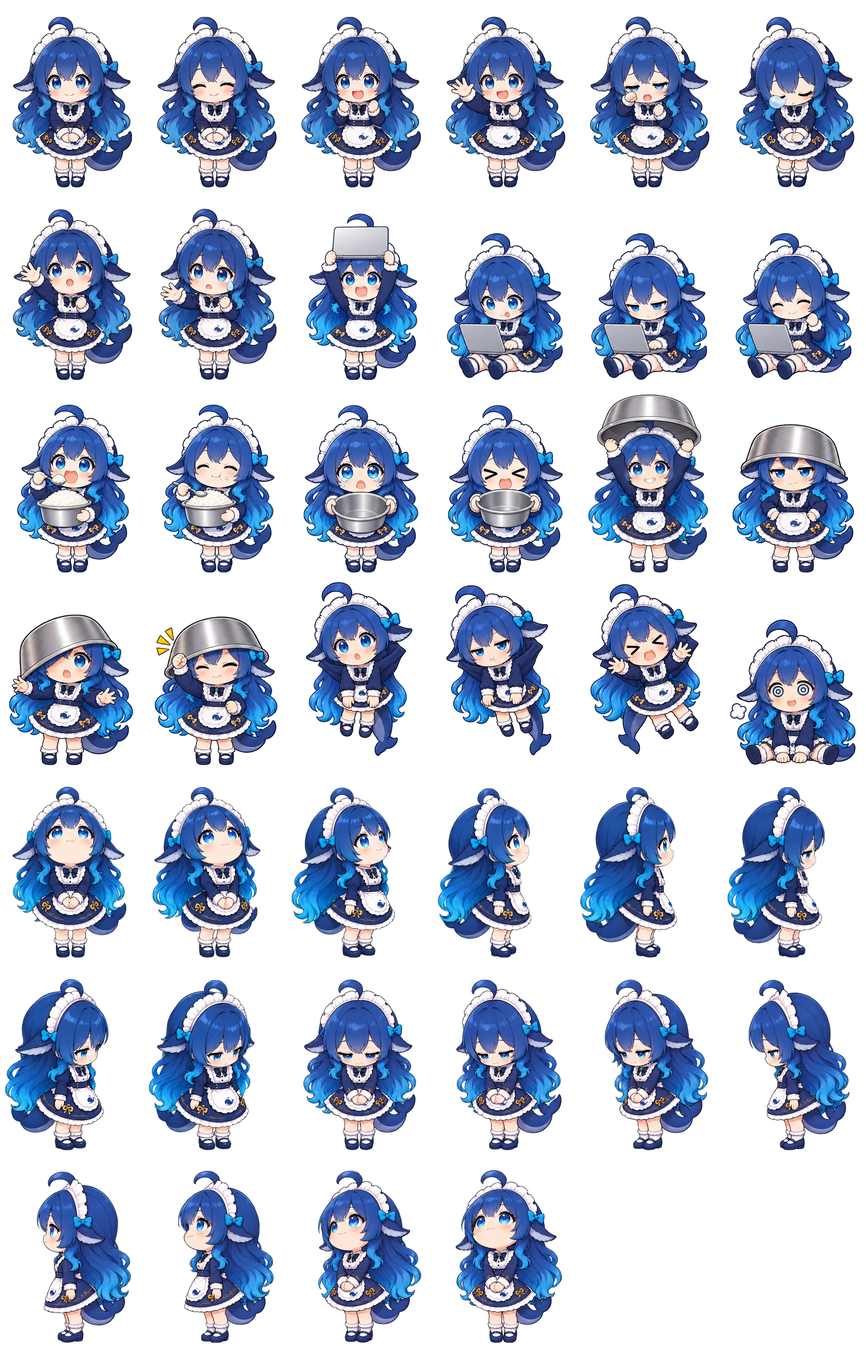
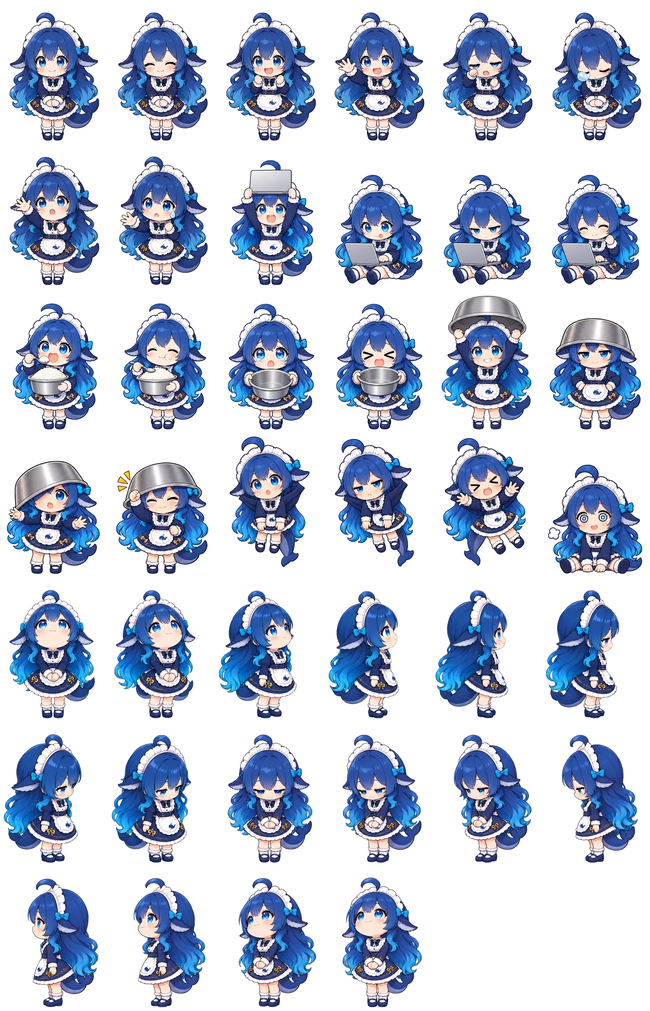
fix(whale-muse): v1.4.0 —— 大文件被 301 到被墙域名，改多源探测；素材压缩 -57%
## 真问题（v1.3.0 的皮肤在国内网络会「透明」）

`cdn.jsdelivr.net` 请求大素材时会 **301 到 raw.githubusercontent.com**，
而 raw 在国内**超时**（实测 30s 只下到 622KB 就断）。插件用 `background-image`
加载图集，拉不到就只剩一个透明壳 —— 而且**不报错、控制台干净**。

实测（1.7MB webp）：

| host | 结果 |
|---|---|
| testingcf.jsdelivr.net | 200 直出，0 跳转 |
| gcore.jsdelivr.net | 200 直出，0 跳转 |
| cdn.jsdelivr.net | 301 → raw，超时 |
| cdn.statically.io | 连接失败 |

## 改法

· 不再写死单一域名：`testingcf → gcore → cdn` 逐个探测，谁先出图用谁；
· 探测目标就是**低清占位图本身**，不做无用请求；
· 结果写进 `localStorage`（`kaoyan_whale_muse_cdn_v1`），下次优先直连；
· 全部失败也不抛错，皮肤保持透明，**不拖垮悬浮球本身**。

## 素材压缩（过采样纠正）

原图 2304×3584（384×512/格），站点最大只显示 168px 高，DPR3 也只需 ~378×504。

| 文件 | 变化 | 体积 |
|---|---|---|
| `pet-dafeiyu.webp` | 2304×3584 → 1728×2688 | 1662 KB → **934 KB** |
| `pet-dafeiyu-inbetweens` | PNG → WebP，1536×512 → 1152×384 | 709 KB → **91 KB** |
| `pet-dafeiyu-tiny.webp` | 新增，324×504 | **72 KB** |

合计 2371 KB → 1097 KB（-54%）。压缩走**预乘 alpha**（半透明像素占多数，
直接缩放会渗出黑边），已做过像素级对比：无黑边/光晕，仅轻微柔化。
原始素材留档 `assets/whale-muse-assets/source/`。

## 渐进加载

低清占位（72KB）先出角色，高清图集加载完再替换，避免 5 秒空白。
替换时临时把 `hasFrame` 压成 false，让 `setFrame` 走无过渡分支，防止闪一下。

## 顺手修的

素材未就位时 `setFrame` 会写入 `url("")` → 浏览器拿页面地址当图片请求（无谓报错），
改成 `none`。

diff --git a/README.md b/README.md
@@ -19,6 +19,7 @@
 plugins/            插件源码（.plugin.js）
 assets/             插件配套素材（图集 / 音频 / 字体）
   <plugin-id>/      按插件 id 分目录，内含素材与许可证文本
+    source/         原始高分辨率素材（**不进服务链路**，只作留档与再压缩）
 skills/             技能包（zip + SKILL.md，后续启用）
 ```
 
@@ -36,14 +37,48 @@ https://cdn.jsdelivr.net/gh/CTRL66666/yali-extensions@main/plugins/<file>.plugin
 https://raw.githubusercontent.com/CTRL66666/yali-extensions/main/plugins/<file>.plugin.js
 ```
 
-> 版本建议：生产环境尽量用**固定 tag**（`@v1.2.0`）而不是 `@main`，
+> 版本建议：生产环境尽量用**固定 tag**（`@v1.4.0`）而不是 `@main`，
 > 避免上游改动直接影响到线上用户。
+
+## ⚠ 大文件必须多源兜底（踩过的坑）
+
+**`cdn.jsdelivr.net` 对大文件会 301 到 `raw.githubusercontent.com`**，
+而国内网络访问 raw **会超时**（实测 30s 只下到 622KB 就断），
+浏览器端表现是「图片永远不出现」，**不报错、控制台干净**。
+
+实测结论（2026-11-21，1.7MB webp）：
+
+| host | 行为 |
+|---|---|
+| `testingcf.jsdelivr.net` | 200 直出，0 跳转 |
+| `gcore.jsdelivr.net` | 200 直出，0 跳转 |
+| `cdn.jsdelivr.net` | 301 → raw，国内超时 |
+| `cdn.statically.io` | 连接失败 |
+
+**约定**：插件加载素材时按 `testingcf → gcore → cdn` 顺序逐个探测，
+谁先出图用谁，结果写进 `localStorage`；不要写死单一域名。
 
 ## 插件清单
 
 | id | 名称 | 版本 | 说明 |
 |---|---|---|---|
-| `deepseek-whale-muse` | DeepSeek 鲸鱼娘 · 原版 | 1.2.0 | 社区 Q 版女仆鲸鱼娘悬浮球皮肤：56–168px 尺寸调节、本地记忆、五态与六种互动、手排原画真帧过渡 |
+| `deepseek-whale-muse` | DeepSeek 鲸鱼娘 · 原版 | 1.4.0 | 社区 Q 版女仆鲸鱼娘悬浮球皮肤：56–168px 尺寸调节、本地记忆、五态与六种互动、手排原画真帧过渡 |
+
+### deepseek-whale-muse 素材交付策略
+
+原始图集 2304×3584（6×7 帧，384×512/格）在站点上最大只显示 168px 高（DPR3 需 ~378×504），
+**原图属于严重过采样**。服务链路用三档交付：
+
+| 文件 | 尺寸 | 体积 | 用途 |
+|---|---|---|---|
+| `pet-dafeiyu-tiny.webp` | 324×504（54×72/格） | 72 KB | 探针 + 首屏占位，先出角色 |
+| `pet-dafeiyu.webp` | 1728×2688（288×384/格） | 934 KB | 高清图集，加载完替换占位 |
+| `pet-dafeiyu-inbetweens.webp` | 1152×384（288×384/格） | 91 KB | 过渡帧（原 PNG 709KB，换 WebP 后 -87%） |
+
+原始素材留档在 `assets/whale-muse-assets/source/`，不参与拉取。
+
+> 压缩必须**预乘 alpha**（半透明像素占多数，直接缩放会在边缘渗出黑边）。
+> 思路：RGB×A 后 LANCZOS 缩放，再除回 A；WebP q=84 / method=6。
 
 ## 素材许可
 
